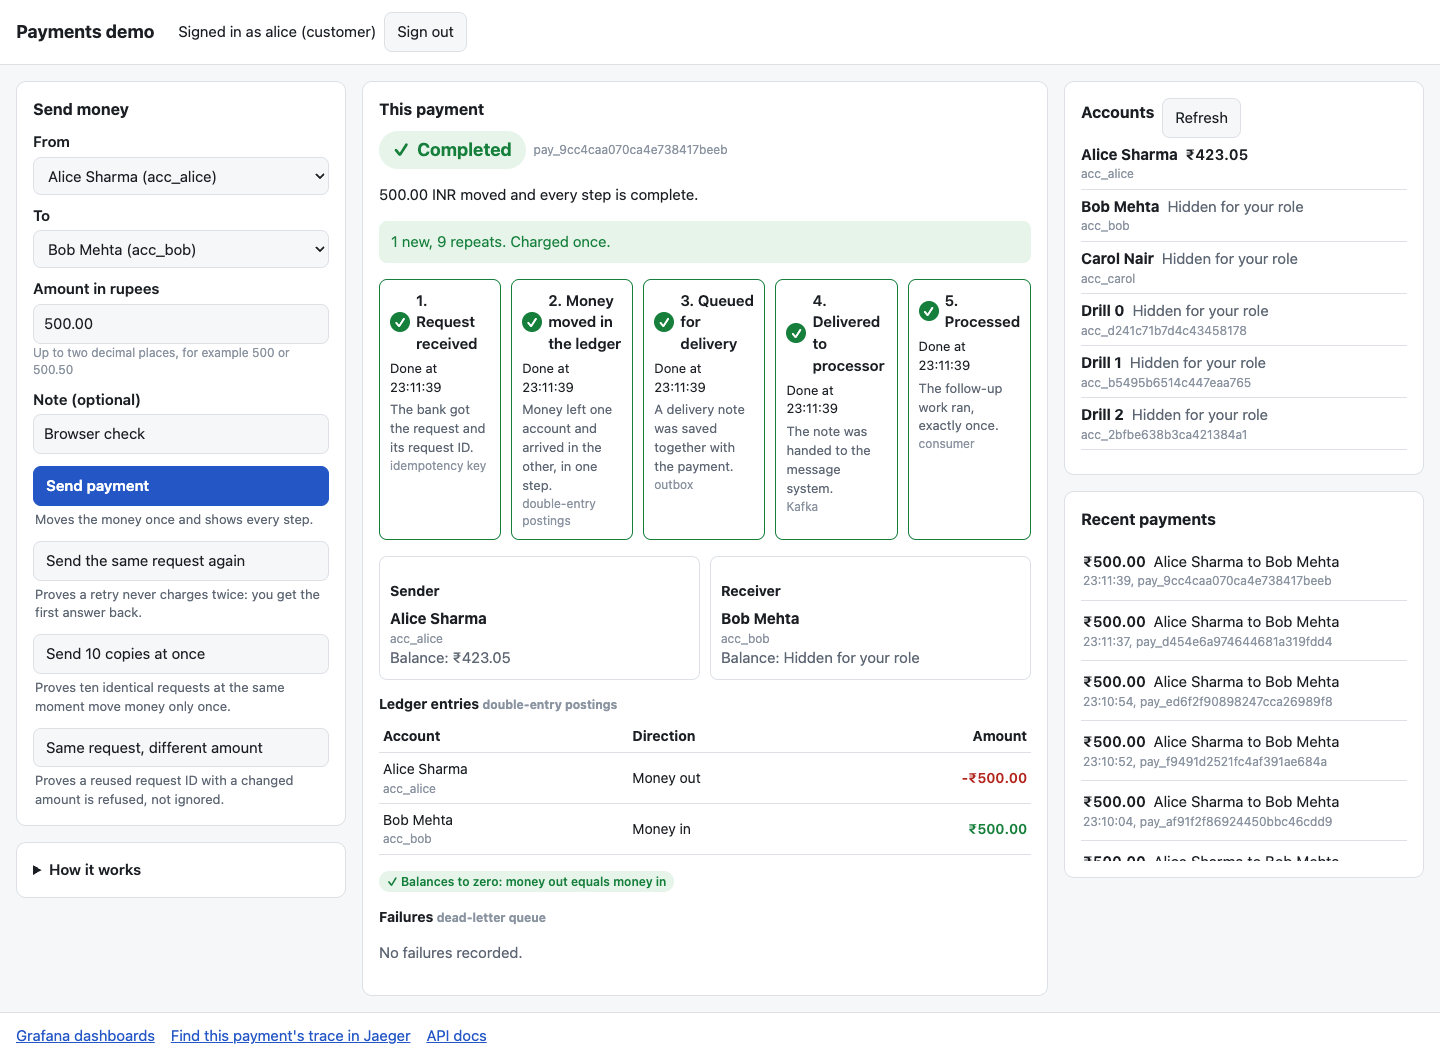
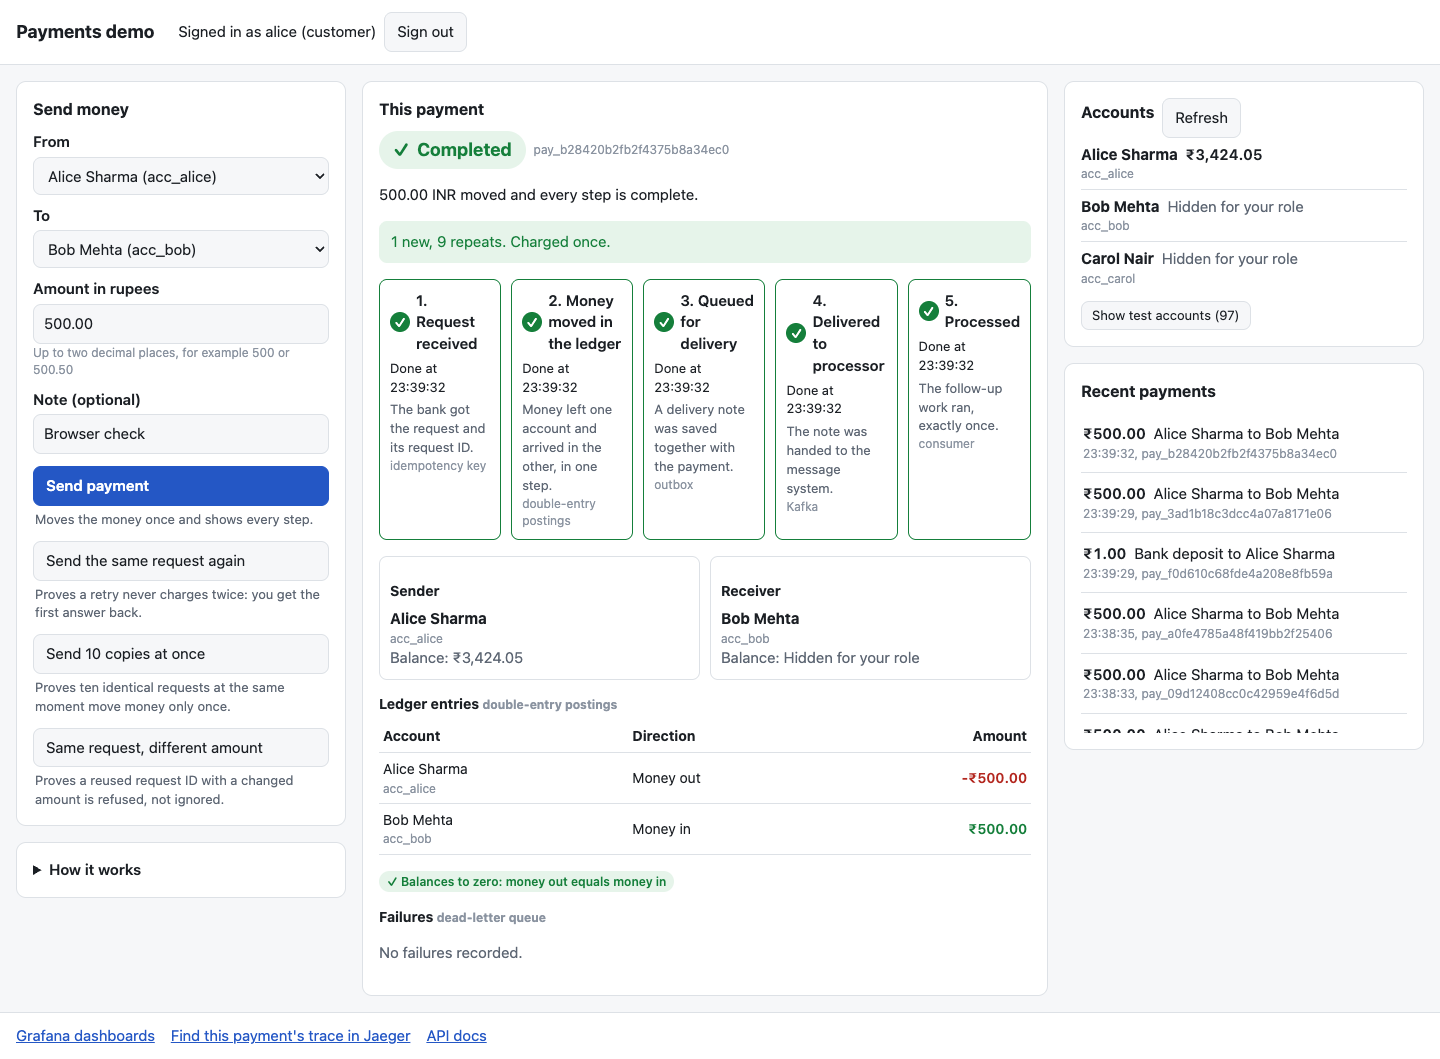
Demo page: dark mode and list polish

diff --git a/app/static/demo.html b/app/static/demo.html
@@ -3,10 +3,13 @@
 <head>
 <meta charset="utf-8">
 <meta name="viewport" content="width=device-width, initial-scale=1">
+<meta name="color-scheme" content="light dark">
 <title>Payments demo</title>
 <link rel="icon" href="data:,">
 <style>
   :root {
+    /* Native scrollbars and form controls follow the theme. */
+    color-scheme: light dark;
     --bg: #f6f7f9; --panel: #ffffff; --text: #1b1f24; --muted: #5d6673; --faint: #8a93a0;
     --line: #dde1e6; --accent: #2457c5; --accent-text: #ffffff;
     --ok: #157f3b; --ok-bg: #e6f4ea; --warn: #8a5a00; --warn-bg: #fff4d6;
@@ -16,6 +19,7 @@
   }
   @media (prefers-color-scheme: dark) {
     :root {
+      color-scheme: dark;
       --bg: #111418; --panel: #1a1e24; --text: #e6e9ed; --muted: #a3acb8; --faint: #7d8794;
       --line: #2c323a; --accent: #7aa2ff; --accent-text: #0d1220;
       --ok: #6fd491; --ok-bg: #16301f; --warn: #f0c35a; --warn-bg: #33290f;
@@ -29,10 +33,13 @@
   h1 { font-size: 18px; margin: 0 12px 0 0; }
   h2 { font-size: 16px; margin: 0 0 10px; }
   h3 { font-size: 14px; margin: 14px 0 6px; }
-  main { display: grid; gap: var(--gap); padding: var(--gap); grid-template-columns: 1fr; max-width: 1500px; margin: 0 auto; }
-  @media (min-width: 1100px) { main { grid-template-columns: 330px 1fr 360px; align-items: start; } }
-  section.panel { background: var(--panel); border: 1px solid var(--line); border-radius: var(--radius); padding: 16px; }
-  .col { display: grid; gap: var(--gap); align-content: start; }
+  /* minmax(0, ...) and min-width: 0 let columns shrink below their longest
+     unbreakable line, so a long name is cut with an ellipsis, not overflowing. */
+  main { display: grid; gap: var(--gap); padding: var(--gap); grid-template-columns: minmax(0, 1fr); max-width: 1500px; margin: 0 auto; }
+  @media (min-width: 1100px) { main { grid-template-columns: 330px minmax(0, 1fr) 360px; align-items: start; } }
+  section.panel { background: var(--panel); border: 1px solid var(--line); border-radius: var(--radius); padding: 16px; min-width: 0; }
+  .col { display: grid; gap: var(--gap); align-content: start; grid-template-columns: minmax(0, 1fr); min-width: 0; }
+  .list-button { display: block; min-width: 0; }
   label { display: block; font-weight: 600; margin: 10px 0 4px; }
   input, select { width: 100%; padding: 8px 10px; border: 1px solid var(--line); border-radius: 8px; background: var(--bg); color: var(--text); font: inherit; }
   button { font: inherit; cursor: pointer; border-radius: 8px; padding: 8px 12px; border: 1px solid var(--line); background: var(--bg); color: var(--text); }
@@ -85,6 +92,12 @@
   ul.plain li:last-child { border-bottom: 0; }
   .list-button { width: 100%; text-align: left; border: 0; background: none; padding: 4px 2px; }
   .list-button:hover { background: var(--bg); }
+  /* Recent payments: always two lines, a long name is cut with an ellipsis. */
+  .pay-line { display: flex; gap: 8px; align-items: baseline; min-width: 0; white-space: nowrap; }
+  .pay-line .amount { flex: none; }
+  .pay-line .parties, .pay-meta { overflow: hidden; text-overflow: ellipsis; white-space: nowrap; min-width: 0; }
+  .pay-meta { display: block; }
+  .toggle { font-size: 13px; padding: 4px 10px; margin-top: 8px; }
   .scroll { max-height: 320px; overflow: auto; }
   .amount { font-variant-numeric: tabular-nums; font-weight: 600; }
   .out { color: var(--bad); }
@@ -208,6 +221,7 @@
     <section class="panel" aria-labelledby="acc-title">
       <div class="row"><h2 id="acc-title">Accounts</h2><button type="button" id="refresh-accounts">Refresh</button></div>
       <ul class="plain scroll" id="accounts"></ul>
+      <button type="button" class="toggle hidden" id="toggle-test" aria-pressed="false" aria-controls="accounts to"></button>
     </section>
     <section class="panel" aria-labelledby="recent-title">
       <h2 id="recent-title">Recent payments</h2>
@@ -356,6 +370,11 @@
     $("app").classList.add("hidden"); $("whoami").classList.add("hidden"); $("signin").classList.remove("hidden");
     $("session-message").textContent = message;
     $("pay-view").classList.add("hidden"); $("pay-empty").classList.remove("hidden");
+    // Nothing the last user could see stays on the page for the next one.
+    state.accounts = []; state.showTest = false; state.traceId = null; state.eventId = null;
+    for (const id of ["accounts", "recent", "recon", "dlq", "from", "to", "tracker", "ledger", "failures", "sender", "receiver"]) $(id).replaceChildren();
+    $("dlq-count").textContent = ""; $("toggle-test").classList.add("hidden");
+    updateJaeger();
   }
   const ROLE_NAMES = { client: "customer", operator: "bank staff", viewer: "auditor, read-only" };
   function startSession() {
@@ -375,47 +394,92 @@
   }
 
   // ---------- accounts and recent payments ----------
+  // The demo accounts scripts/seed.py creates, in the order shown first.
+  // Ids only: names and balances still come from the API.
+  const SEEDED = ["acc_alice", "acc_bob", "acc_carol", "sys_settlement", "sys_fees"];
+  // Accounts generated by the chaos and baseline runs ("chaos <run> <n>"),
+  // scripts/drill.py ("Drill <n>"), the test fixtures ("Test Holder"), the
+  // docs/API.md example ("Dev Patel") and one-character probes. A display
+  // filter only: the API returns them, and the toggle shows them.
+  const GENERATED = /^(chaos\s|drill\s+\d+$|test holder$|dev patel$|.$)/i;
+  function isGenerated(a) { return !SEEDED.includes(a.id) && GENERATED.test(a.holder_name.trim()); }
+  function ordered(accounts) {
+    const rank = (a) => (SEEDED.includes(a.id) ? SEEDED.indexOf(a.id) : SEEDED.length + (isGenerated(a) ? 1 : 0));
+    return accounts.map((a, i) => [a, i]).sort((x, y) => rank(x[0]) - rank(y[0]) || x[1] - y[1]).map(([a]) => a);
+  }
+  function shown(accounts) { return state.showTest ? accounts : accounts.filter((a) => !isGenerated(a)); }
+
   async function loadAccounts() {
     const resp = await api("/v1/accounts?limit=100");
     if (!resp.ok) return;
-    state.accounts = resp.body;
+    state.accounts = ordered(resp.body);
+    renderAccounts();
+  }
+  function renderAccounts() {
     const list = $("accounts"); list.replaceChildren();
-    for (const a of state.accounts) {
+    for (const a of shown(state.accounts)) {
       const balance = a.balance === null ? el("span", { class: "muted" }, "Hidden for your role") : el("span", { class: "amount" }, formatAmount(a.balance, a.currency));
       list.append(el("li", {}, el("div", { class: "row" }, el("strong", {}, a.holder_name), balance),
         el("div", { class: "tech" }, a.id + (a.account_type === "system" ? ", bank's own account" : ""))));
     }
+    const hidden = state.accounts.filter(isGenerated).length;
+    const toggle = $("toggle-test");
+    toggle.classList.toggle("hidden", hidden === 0);
+    toggle.textContent = (state.showTest ? "Hide test accounts (" : "Show test accounts (") + hidden + ")";
+    toggle.setAttribute("aria-pressed", String(!!state.showTest));
     fillSelects();
   }
+  $("toggle-test").addEventListener("click", () => { state.showTest = !state.showTest; renderAccounts(); });
   function label(a) { return a.holder_name + " (" + a.id + ")"; }
   function fillSelects() {
     const from = $("from"), to = $("to");
     const keepFrom = from.value, keepTo = to.value;
     from.replaceChildren();
-    for (const a of state.accounts.filter((a) => a.can_debit)) from.append(el("option", { value: a.id }, label(a)));
+    for (const a of shown(state.accounts).filter((a) => a.can_debit)) from.append(el("option", { value: a.id }, label(a)));
     if ([...from.options].some((o) => o.value === keepFrom)) from.value = keepFrom;
     to.replaceChildren();
-    for (const a of state.accounts.filter((a) => a.id !== from.value)) to.append(el("option", { value: a.id }, label(a)));
+    for (const a of shown(state.accounts).filter((a) => a.id !== from.value)) to.append(el("option", { value: a.id }, label(a)));
     if ([...to.options].some((o) => o.value === keepTo)) to.value = keepTo;
   }
   $("from").addEventListener("change", fillSelects);
   $("refresh-accounts").addEventListener("click", loadAccounts);
-  function nameOf(id) { const a = state.accounts.find((x) => x.id === id); return a ? a.holder_name : id; }
+  const BANK = "Bank (system account)";
+  // A system account the caller cannot see by name (a client is not shown
+  // them) is called the bank. Seeded system account ids start with "sys_".
+  function isSystem(id) {
+    const a = state.accounts.find((x) => x.id === id);
+    return a ? a.account_type === "system" : id.startsWith("sys_");
+  }
+  function nameOf(id) {
+    const a = state.accounts.find((x) => x.id === id);
+    if (a) return a.holder_name;
+    return isSystem(id) ? BANK : id;
+  }
+  function describe(p) {
+    const from = p.from_account_id, to = p.to_account_id;
+    const visible = (id) => state.accounts.some((x) => x.id === id);
+    if (isSystem(from) && !visible(from)) return "Bank deposit to " + nameOf(to);
+    if (isSystem(to) && !visible(to)) return nameOf(from) + " to " + BANK;
+    return nameOf(from) + " to " + nameOf(to);
+  }
   async function loadRecent() {
     const resp = await api("/v1/payments?limit=10");
     const list = $("recent"); list.replaceChildren();
     if (!resp.ok) { list.append(el("li", { class: "muted" }, plainError(resp.status, resp.body))); return; }
     if (!resp.body.length) { list.append(el("li", { class: "muted" }, "No payments yet.")); return; }
     for (const p of resp.body) {
+      const parties = describe(p);
+      const meta = time(p.created_at) + ", " + p.payment_id;
       list.append(el("li", {}, el("button", {
-        type: "button", class: "list-button",
+        type: "button", class: "list-button", title: parties + "\n" + meta,
         onclick: () => { state.last = null; showPayment(p.payment_id, { fresh: true }); },
-      }, el("div", { class: "row" }, el("span", { class: "amount" }, formatAmount(p.amount, p.currency)),
-          el("span", {}, nameOf(p.from_account_id) + " to " + nameOf(p.to_account_id))),
-         el("div", { class: "tech" }, time(p.created_at) + ", " + p.payment_id))));
+      }, el("div", { class: "pay-line" }, el("span", { class: "amount" }, formatAmount(p.amount, p.currency)),
+          el("span", { class: "parties" }, parties)),
+         el("span", { class: "tech pay-meta" }, meta))));
     }
   }
-  function refreshAll() { loadAccounts(); loadRecent(); }
+  // Accounts first: Recent payments names its parties from that list.
+  async function refreshAll() { await loadAccounts(); await loadRecent(); }
 
   // ---------- sending ----------
   function readForm() {
